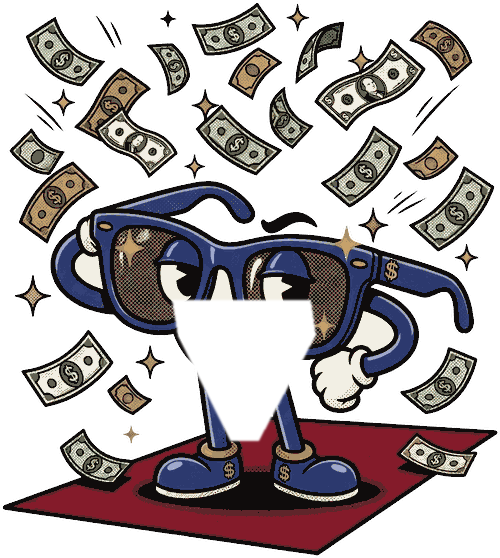
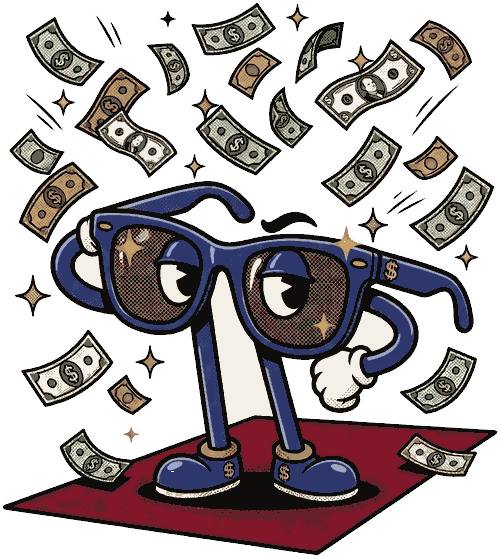
Unify site background to a single light theme, redesign approach section to mirror CTA layout
- Remove dark-section blue treatment; all sections now share the light background
- Rework How We Work section into an icon-left/text-right mirror of the ad-dollars CTA section
- Update copy: "It's good to make sense. It's better to make cents."
- Swap in updated sunglasses mascot (no more gap between the legs) and add matching caption
- Remove now-unused heart and lightbulb icon assets

diff --git a/style.css b/style.css
@@ -1,6 +1,6 @@
 :root {
   --navy: #1D4533;
-  --section-bg: #78A4CB;
+  --section-bg: var(--ice);
   --slate: #526D82;
   --ice: #FBFBF4;
   --ice-muted: rgba(251, 251, 244, 0.68);
@@ -180,14 +180,12 @@ a { color: inherit; text-decoration: none; }
 }
 .btn-ghost:hover { border-color: var(--navy); background: rgba(29, 69, 51, 0.06); }
 
-/* Dark-section modifier */
-.section-dark { background: var(--section-bg); color: var(--ice); }
-.section-dark .stitch-label { color: var(--ice-muted); border-bottom-color: var(--border-dark); }
-.section-dark .lede { color: var(--ice-muted); }
-.section-dark .btn-primary { background: var(--ice); color: var(--navy); }
-.section-dark .btn-primary:hover { background: var(--white); }
-.section-dark .btn-ghost { border-color: rgba(255, 255, 255, 0.4); color: var(--ice); }
-.section-dark .btn-ghost:hover { border-color: var(--white); background: rgba(255, 255, 255, 0.08); }
+/* Section background */
+.section-dark { background: var(--section-bg); color: var(--navy); }
+.section-dark .stitch-label { color: var(--slate); border-bottom-color: var(--border-light); }
+.section-dark .lede { color: var(--slate); }
+.section-dark .btn-ghost { border-color: var(--slate); color: var(--navy); }
+.section-dark .btn-ghost:hover { border-color: var(--navy); background: rgba(29, 69, 51, 0.06); }
 
 /* Hero */
 .hero {
@@ -236,51 +234,28 @@ a { color: inherit; text-decoration: none; }
 }
 
 /* Approach section */
-.belief { padding: 100px 0; text-align: center; }
+.belief { padding: 110px 0; }
 .lede { font-size: 1.05rem; max-width: 640px; color: var(--slate); }
-.belief-inner { max-width: 1220px; }
-.belief-grid {
+.belief-inner {
   display: grid;
-  grid-template-columns: 1fr 1.3fr 1fr;
-  gap: 48px;
-  align-items: start;
+  grid-template-columns: 0.9fr 1.1fr;
+  align-items: center;
+  gap: 56px;
 }
-.belief-block h2 {
-  max-width: none;
-  font-weight: 400;
-  line-height: 1.45;
-}
-.belief-block:not(.belief-block-wide) h2 {
-  max-width: 14ch;
-  margin-left: auto;
-  margin-right: auto;
-}
-.belief-grid > .belief-block:nth-child(3) h2 { max-width: 17ch; }
-.belief-icon-wrap {
-  display: flex;
-  align-items: flex-end;
-  justify-content: center;
-  height: 240px;
-  margin-bottom: 28px;
-}
-.belief-block-wide {
+.belief-visual {
   display: flex;
   flex-direction: column;
   align-items: center;
 }
-.belief-block-wide h2 { order: 1; margin: 0 0 28px; }
-.belief-block-wide .belief-icon-wrap {
-  order: 2;
-  height: auto;
-  align-items: center;
-  margin-bottom: 0;
-}
-.belief-icon {
+.belief-icon-solo {
   display: block;
-  width: min(220px, 65%);
+  width: 100%;
+  max-width: 360px;
   height: auto;
 }
-.belief-block-wide .belief-icon { width: min(220px, 55%); }
+.belief-visual .cta-caption-row { align-self: flex-start; margin-top: 4px; }
+.belief-text { text-align: right; }
+.belief-text .lede { margin: 0 0 0 auto; }
 
 /* CTA */
 .cta { padding: 110px 0; }
@@ -328,7 +303,7 @@ a { color: inherit; text-decoration: none; }
   margin: 0 auto 24px;
 }
 .contact-form h2 { font-size: clamp(2rem, 4.2vw, 3.1rem); }
-.contact-form .lede { margin: 0 auto 56px; font-size: 1.25rem; color: var(--ice); }
+.contact-form .lede { margin: 0 auto 56px; font-size: 1.25rem; color: var(--slate); }
 .inquiry-form {
   max-width: 600px;
   margin: 0 auto;
@@ -345,17 +320,17 @@ a { color: inherit; text-decoration: none; }
 .form-field input {
   background: transparent;
   border: none;
-  border-bottom: 1px solid rgba(255, 255, 255, 0.3);
+  border-bottom: 1px solid var(--border-light);
   padding: 12px 2px;
   font-family: var(--sans);
   font-size: 1rem;
-  color: var(--ice);
+  color: var(--navy);
 }
 .form-field input:focus {
   outline: none;
-  border-bottom-color: var(--ice);
+  border-bottom-color: var(--navy);
 }
-.form-field input::placeholder { color: var(--ice); }
+.form-field input::placeholder { color: var(--slate); }
 .inquiry-form .btn-primary {
   align-self: flex-start;
   margin-top: 12px;
@@ -368,7 +343,7 @@ a { color: inherit; text-decoration: none; }
 .form-status {
   margin: 16px 0 0;
   font-size: 1rem;
-  color: var(--ice);
+  color: var(--navy);
 }
 
 /* Footer */
@@ -378,12 +353,12 @@ a { color: inherit; text-decoration: none; }
 }
 .footer-inner {
   font-size: 0.85rem;
-  color: var(--ice-muted);
+  color: var(--slate);
 }
 
 /* Responsive */
 @media (max-width: 860px) {
-  .belief-grid { grid-template-columns: 1fr; gap: 48px; }
+  .belief-inner { grid-template-columns: 1fr; gap: 40px; }
   .cta-inner { grid-template-columns: 1fr; gap: 40px; }
   .cta-visual { align-items: flex-start; }
   .cta-caption-row { align-self: flex-start; }

diff --git a/index.html b/index.html
@@ -51,19 +51,19 @@
 
   <section class="belief section-dark" id="approach">
     <div class="wrap belief-inner">
-      <div class="belief-grid">
-        <div class="belief-block">
-          <div class="belief-icon-wrap"><img src="heart-data.png" alt="" class="belief-icon" width="500" height="554"></div>
-          <h2>Data is at the heart of everything we do.</h2>
+      <div class="belief-visual">
+        <img src="celeb-icon.png" alt="" class="belief-icon-solo" width="500" height="558">
+        <div class="cta-caption-row">
+          <svg class="cta-arrow" viewBox="0 0 60 60" fill="none" xmlns="http://www.w3.org/2000/svg">
+            <path d="M6 52C18 34 32 18 48 8" stroke="currentColor" stroke-width="2" stroke-linecap="round"/>
+            <path d="M34 6L50 6L48 22" stroke="currentColor" stroke-width="2" stroke-linecap="round" stroke-linejoin="round"/>
+          </svg>
+          <p class="cta-caption">You feeling cool and smart and rich after hiring us.</p>
         </div>
-        <div class="belief-block belief-block-wide">
-          <div class="belief-icon-wrap"><img src="lightbulb-icon.png" alt="" class="belief-icon" width="500" height="576"></div>
-          <h2>Which means our marketing tactics always make sense.</h2>
-        </div>
-        <div class="belief-block">
-          <div class="belief-icon-wrap"><img src="celeb-icon.png" alt="" class="belief-icon" width="500" height="558"></div>
-          <h2>But more importantly, they always make cents.</h2>
-        </div>
+      </div>
+      <div class="belief-text">
+        <h2>It's good to make sense. It's better to make cents.</h2>
+        <p class="lede">Data is at the heart of everything we do. Which means our marketing tactics are always well-informed. Or said differently, they make sense. But more importantly, they make cents.</p>
       </div>
     </div>
   </section>
